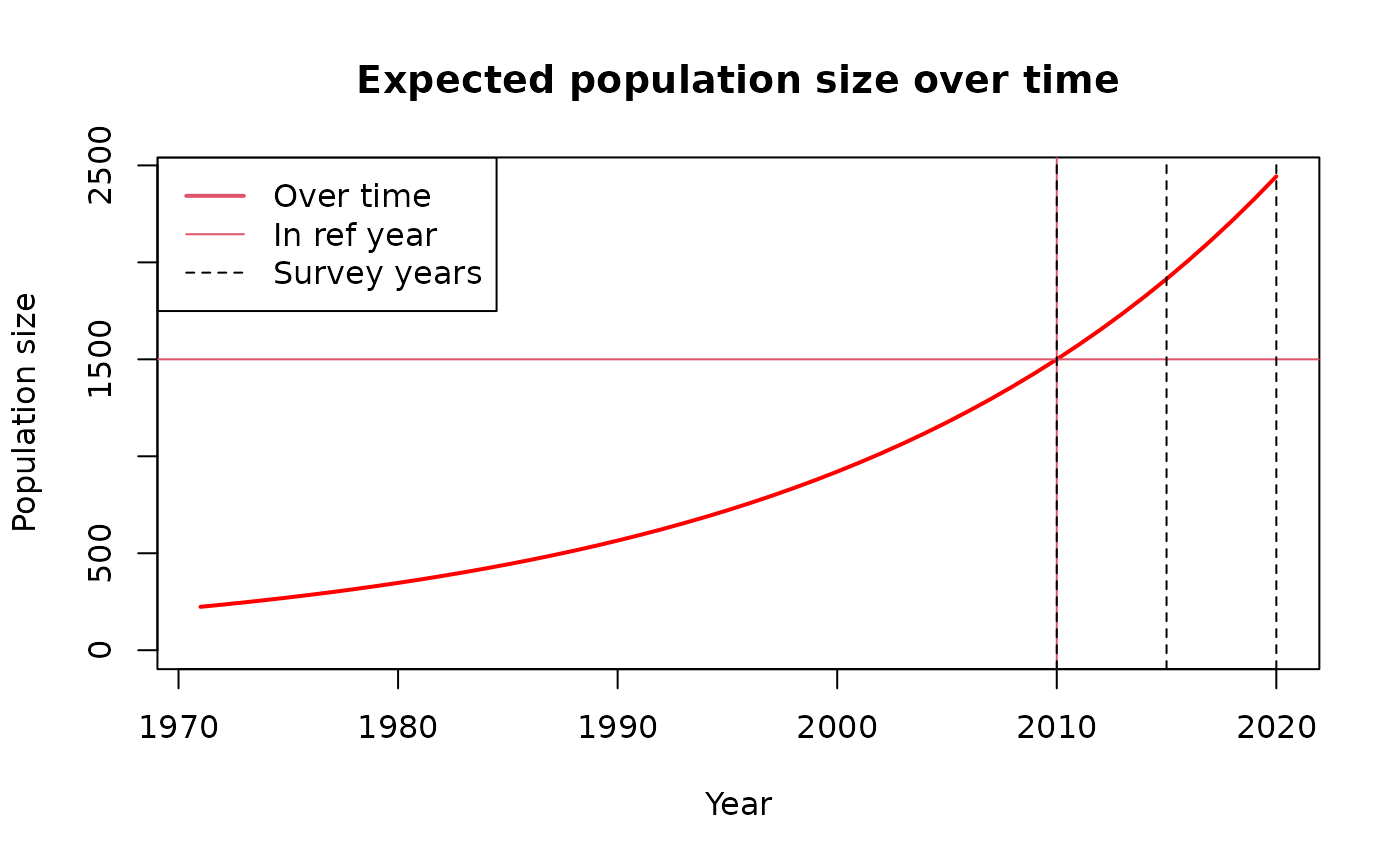
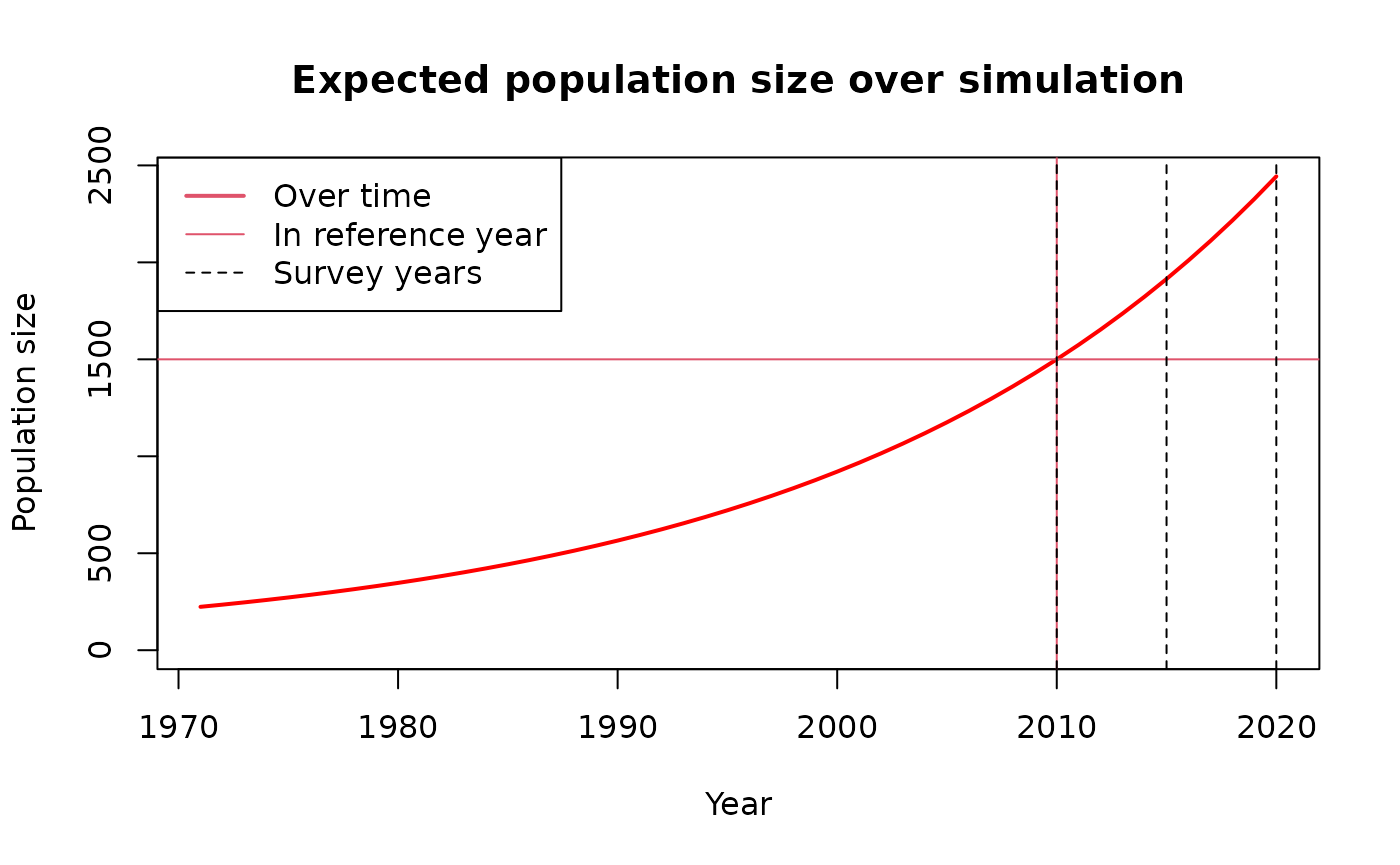
Deploying to gh-pages from @ rasutt/ckutils@99b71ac1ff1fa2b713cb8f41db027f6d39391b6d 🚀

Changed region(s): [[0.215, 0.0624, 0.86, 0.1249], [0.2457, 0.2497, 0.3993, 0.3121]]

diff --git a/index.html b/index.html
@@ -73,23 +73,24 @@
 <div class="section level2">
 <h2 id="example">Example<a class="anchor" aria-label="anchor" href="#example"></a>
 </h2>
-<p>This is a basic example which shows you how to simulate a wildlife population and a sampling-survey study of it:</p>
+<p>This is a basic example which shows you how to simulate a wildlife population and a sampling-survey study of it.</p>
+<div class="section level3">
+<h3 id="simulation-years-and-expected-population-size">Simulation years and expected population size<a class="anchor" aria-label="anchor" href="#simulation-years-and-expected-population-size"></a>
+</h3>
+<p>Close-kin studies use the probabilities of close family relationships between pairs of sampled animals (close-kin pairs). These relationships are defined by the breeding events that occur prior to sampling, so ckutils lets you specify the number of years to simulate the population prior to the final survey year. This needs to be long enough that most of the relevant breeding events occur during the simulation.</p>
+<p>ckutils simulates populations in which the expected population size grows by a constant factor called the population growth rate <span class="math inline"><em>λ</em></span>. Specifying this rate along with the expected population size <span class="math inline"><em>N</em></span> in a reference year defines the expected population size in all years. It is good to check these as very small population sizes can be unsustainable, and very large ones slow to simulate.</p>
 <div class="sourceCode" id="cb2"><pre class="downlit sourceCode r">
 <code class="sourceCode R"><span><span class="co"># Load close-kin utilities package</span></span>
 <span><span class="kw"><a href="https://rdrr.io/r/base/library.html" class="external-link">library</a></span><span class="op">(</span><span class="va"><a href="https://rasutt.github.io/ckutils/">ckutils</a></span><span class="op">)</span></span>
 <span></span>
-<span><span class="co"># Population size in reference year</span></span>
+<span><span class="co"># Survey years and simulation length</span></span>
+<span><span class="va">srvy_yrs</span> <span class="op">=</span> <span class="fu"><a href="https://rdrr.io/r/base/c.html" class="external-link">c</a></span><span class="op">(</span><span class="fl">2010</span>, <span class="fl">2015</span>, <span class="fl">2020</span><span class="op">)</span></span>
+<span><span class="va">sim_len</span> <span class="op">=</span> <span class="fl">50</span></span>
+<span></span>
+<span><span class="co"># Population growth rate, and population size in reference year</span></span>
+<span><span class="va">lambda</span> <span class="op">=</span> <span class="fl">1.05</span></span>
 <span><span class="va">ref_yr</span> <span class="op">=</span> <span class="fl">2010</span></span>
 <span><span class="va">exp_N_ref</span> <span class="op">=</span> <span class="fl">1500</span></span>
-<span></span>
-<span><span class="co"># Population growth rate</span></span>
-<span><span class="va">lambda</span> <span class="op">=</span> <span class="fl">1.05</span></span>
-<span></span>
-<span><span class="co"># Survey years</span></span>
-<span><span class="va">srvy_yrs</span> <span class="op">=</span> <span class="fu"><a href="https://rdrr.io/r/base/c.html" class="external-link">c</a></span><span class="op">(</span><span class="fl">2010</span>, <span class="fl">2015</span>, <span class="fl">2020</span><span class="op">)</span></span>
-<span></span>
-<span><span class="co"># Simulation length</span></span>
-<span><span class="va">sim_len</span> <span class="op">=</span> <span class="fl">50</span></span>
 <span></span>
 <span><span class="co"># Simulation years</span></span>
 <span><span class="va">fnl_yr</span> <span class="op">=</span> <span class="fu"><a href="https://rdrr.io/r/utils/head.html" class="external-link">tail</a></span><span class="op">(</span><span class="va">srvy_yrs</span>, <span class="fl">1</span><span class="op">)</span></span>
@@ -100,49 +101,86 @@
 <span><span class="va">exp_N_init</span> <span class="op">=</span> <span class="va">exp_N_ref</span> <span class="op">*</span> <span class="va">lambda</span><span class="op">^</span><span class="op">(</span><span class="va">init_yr</span> <span class="op">-</span> <span class="va">ref_yr</span><span class="op">)</span></span>
 <span><span class="va">exp_N_t</span> <span class="op">=</span> <span class="va">exp_N_init</span> <span class="op">*</span> <span class="va">lambda</span><span class="op">^</span><span class="op">(</span><span class="fl">0</span><span class="op">:</span><span class="op">(</span><span class="va">sim_len</span> <span class="op">-</span> <span class="fl">1</span><span class="op">)</span><span class="op">)</span></span>
 <span></span>
-<span><span class="co"># Plot the expected population size for a particular scenario</span></span>
+<span><span class="co"># Plot expected population size over simulation years</span></span>
 <span><span class="fu"><a href="reference/plot_exp_pop.html">plot_exp_pop</a></span><span class="op">(</span><span class="va">sim_yrs</span>, <span class="va">exp_N_t</span>, <span class="va">ref_yr</span>, <span class="va">exp_N_ref</span>, <span class="va">srvy_yrs</span><span class="op">)</span></span></code></pre></div>
 <p><img src="reference/figures/README-example-1.png" width="100%"></p>
+</div>
+<div class="section level3">
+<h3 id="predicted-numbers-of-close-kin-pairs">Predicted numbers of close-kin pairs<a class="anchor" aria-label="anchor" href="#predicted-numbers-of-close-kin-pairs"></a>
+</h3>
+<p>ckutils simulates populations in which each animal survives from one year to the next with the same constant probability <span class="math inline"><em>ϕ</em></span>, and becomes sexually mature at the same age <span class="math inline"><em>α</em></span>. Each animal also has the same constant probability <span class="math inline"><em>p</em></span> of being sampled in any survey (given that it is alive in that year).</p>
+<p>These parameters, along with the population and survey parameters above, allow for approximations of the expected numbers of various close-kin pairs among sampled animals. A sufficient number of such pairs is essential to a successful study.</p>
 <div class="sourceCode" id="cb3"><pre class="downlit sourceCode r">
-<code class="sourceCode R"><span><span class="co"># Find expected numbers of kin-pairs in population</span></span>
-<span><span class="fu"><a href="reference/find_exp_ns_kps.html">find_exp_ns_kps</a></span><span class="op">(</span></span>
-<span>    exp.N.t <span class="op">=</span> <span class="fl">20</span><span class="op">*</span><span class="fl">1.05</span><span class="op">^</span><span class="op">(</span><span class="fl">1</span><span class="op">:</span><span class="fl">20</span><span class="op">)</span>, s.yr.inds <span class="op">=</span> <span class="fl">1</span><span class="op">:</span><span class="fl">2</span>, phi <span class="op">=</span> <span class="fl">0.9</span>, rho <span class="op">=</span> <span class="fl">0.15</span>, </span>
-<span>    lambda <span class="op">=</span> <span class="fl">1.05</span>, alpha <span class="op">=</span> <span class="fl">5</span>, srvy.yrs <span class="op">=</span> <span class="fu"><a href="https://rdrr.io/r/base/c.html" class="external-link">c</a></span><span class="op">(</span><span class="fl">18</span>, <span class="fl">20</span><span class="op">)</span>, k <span class="op">=</span> <span class="fl">2</span></span>
-<span><span class="op">)</span></span>
+<code class="sourceCode R"><span><span class="co"># Annual survival rate and age of sexual maturity</span></span>
+<span><span class="va">phi</span> <span class="op">=</span> <span class="fl">0.9</span></span>
+<span><span class="va">alpha</span> <span class="op">=</span> <span class="fl">8</span></span>
+<span></span>
+<span><span class="co"># Capture probability</span></span>
+<span><span class="va">p</span> <span class="op">=</span> <span class="fl">0.1</span></span>
+<span></span>
+<span><span class="co"># Survey year indices</span></span>
+<span><span class="va">s_yr_inds</span> <span class="op">=</span> <span class="fu"><a href="https://rdrr.io/r/base/seq.html" class="external-link">seq_along</a></span><span class="op">(</span><span class="va">srvy_yrs</span><span class="op">)</span></span>
+<span></span>
+<span><span class="co"># Number of surveys</span></span>
+<span><span class="va">k</span> <span class="op">=</span> <span class="fu"><a href="https://rdrr.io/r/base/length.html" class="external-link">length</a></span><span class="op">(</span><span class="va">srvy_yrs</span><span class="op">)</span></span>
+<span></span>
+<span><span class="co"># Per capita birth rate</span></span>
+<span><span class="va">rho</span> <span class="op">=</span> <span class="va">lambda</span> <span class="op">-</span> <span class="va">phi</span></span>
+<span></span>
+<span><span class="co"># Find expected numbers of kin-pairs in population</span></span>
+<span><span class="fu"><a href="reference/find_exp_ns_kps.html">find_exp_ns_kps</a></span><span class="op">(</span><span class="va">exp_N_t</span>, <span class="va">s_yr_inds</span>, <span class="va">phi</span>, <span class="va">rho</span>, <span class="va">lambda</span>, <span class="va">alpha</span>, <span class="va">srvy_yrs</span>, <span class="va">k</span><span class="op">)</span></span>
 <span><span class="co">#&gt; $wtn</span></span>
-<span><span class="co">#&gt;      N.s.yrs      APs     POPs     SMPs     SFPs     FSPs     HSPs</span></span>
-<span><span class="co">#&gt; [1,]   21.00 210.0000 24.93750 27.35514 28.00031 4.102449 47.15056</span></span>
-<span><span class="co">#&gt; [2,]   22.05 232.0763 26.18438 28.72290 29.41366 4.102449 49.93166</span></span>
+<span><span class="co">#&gt;       N.s.yrs      APs     POPs     SMPs     SFPs     FSPs      HSPs</span></span>
+<span><span class="co">#&gt; [1,] 223.7219 24913.89 265.6698 462.7737 477.7093 10.34484  919.7933</span></span>
+<span><span class="co">#&gt; [2,] 234.9080 27473.44 278.9533 485.9124 501.6192 10.34484  966.8419</span></span>
+<span><span class="co">#&gt; [3,] 246.6534 30295.64 292.9010 510.2080 526.7247 10.34484 1016.2430</span></span>
 <span><span class="co">#&gt; </span></span>
 <span><span class="co">#&gt; $btn</span></span>
-<span><span class="co">#&gt;         APs   SPs     POPs     SMPs SMPs.kwn.age     SFPs     FSPs     HSPs</span></span>
-<span><span class="co">#&gt; [1,] 463.05 17.01 52.09875 56.82054    0.3904464 56.61519 8.093546 97.24864</span></span></code></pre></div>
+<span><span class="co">#&gt;           APs       SPs     POPs     SMPs SMPs.kwn.age     SFPs     FSPs</span></span>
+<span><span class="co">#&gt; [1,] 52554.09 132.10557 566.1997 879.5848     4.159592 863.9176 17.60714</span></span>
+<span><span class="co">#&gt; [2,] 55181.79  78.00702 545.6511 646.3162     2.020720 624.3719 11.86953</span></span>
+<span><span class="co">#&gt; [3,] 57940.88 138.71085 594.5097 923.5640     4.367572 907.1424 17.60080</span></span>
+<span><span class="co">#&gt;          HSPs</span></span>
+<span><span class="co">#&gt; [1,] 1708.288</span></span>
+<span><span class="co">#&gt; [2,] 1246.949</span></span>
+<span><span class="co">#&gt; [3,] 1795.505</span></span></code></pre></div>
+</div>
+<div class="section level3">
+<h3 id="simulate-population-and-study">Simulate population and study<a class="anchor" aria-label="anchor" href="#simulate-population-and-study"></a>
+</h3>
 <div class="sourceCode" id="cb4"><pre class="downlit sourceCode r">
-<code class="sourceCode R"><span><span class="co"># Set random seed for testing</span></span>
+<code class="sourceCode R"><span><span class="co"># Number of loci in genome</span></span>
+<span><span class="va">L</span> <span class="op">=</span> <span class="fl">100</span></span>
+<span></span>
+<span><span class="co"># Initial minor allele frequency</span></span>
+<span><span class="va">imaf</span> <span class="op">=</span> <span class="fl">0.5</span></span>
+<span></span>
+<span><span class="co"># Set random seed for testing</span></span>
 <span><span class="fu"><a href="https://rdrr.io/r/base/Random.html" class="external-link">set.seed</a></span><span class="op">(</span><span class="fl">1</span><span class="op">)</span></span>
 <span></span>
 <span><span class="co"># Simulate one population and study</span></span>
 <span><span class="va">pop_study</span> <span class="op">=</span> <span class="fu"><a href="reference/sim_pop_study.html">sim_pop_study</a></span><span class="op">(</span></span>
-<span>  phi <span class="op">=</span> <span class="fl">0.9</span>, lambda <span class="op">=</span> <span class="fl">1.05</span>, N.init <span class="op">=</span> <span class="fl">20</span>, hist.len <span class="op">=</span> <span class="fl">20</span>, srvy.yrs <span class="op">=</span> <span class="fl">20</span>, k <span class="op">=</span> <span class="fl">1</span>,</span>
-<span>  f.year <span class="op">=</span> <span class="fl">20</span>, p <span class="op">=</span> <span class="fl">0.5</span>, L <span class="op">=</span> <span class="fl">10</span>, imaf <span class="op">=</span> <span class="fl">0.5</span>, clvng.p <span class="op">=</span> <span class="fl">0</span>, tmp.emgn <span class="op">=</span> <span class="fl">0</span>,</span>
-<span>  alpha <span class="op">=</span> <span class="fl">5</span>, clvng.ints <span class="op">=</span> <span class="cn">F</span></span>
+<span>  <span class="va">phi</span>, <span class="va">lambda</span>, <span class="va">exp_N_init</span>, <span class="va">sim_len</span>, <span class="va">srvy_yrs</span>, <span class="va">k</span>,</span>
+<span>  <span class="va">fnl_yr</span>, <span class="va">p</span>, <span class="va">L</span>, <span class="va">imaf</span>, clvng.p <span class="op">=</span> <span class="fl">0</span>, tmp.emgn <span class="op">=</span> <span class="fl">0</span>,</span>
+<span>  alpha <span class="op">=</span> <span class="va">alpha</span>, clvng.ints <span class="op">=</span> <span class="cn">F</span></span>
 <span><span class="op">)</span></span>
 <span></span>
 <span><span class="co"># Look at it</span></span>
 <span><span class="fu"><a href="https://rdrr.io/r/utils/head.html" class="external-link">head</a></span><span class="op">(</span><span class="va">pop_study</span><span class="op">)</span></span>
-<span><span class="co">#&gt;    ID mum dad C20 Cvg20</span></span>
-<span><span class="co">#&gt; 10 10  NA  NA   1     0</span></span>
-<span><span class="co">#&gt; 11 11  NA  NA   1     0</span></span>
-<span><span class="co">#&gt; 20 20  NA  NA   1     0</span></span>
-<span><span class="co">#&gt; 28 28  10  14   1     1</span></span>
-<span><span class="co">#&gt; 32 32  21  18   1     0</span></span>
-<span><span class="co">#&gt; 39 39   3  19   1     1</span></span></code></pre></div>
+<span><span class="co">#&gt;        ID mum dad C2010 C2015 C2020 Cvg2010 Cvg2015 Cvg2020</span></span>
+<span><span class="co">#&gt; 455   455 159  71     0     1     0       1       1       1</span></span>
+<span><span class="co">#&gt; 506   506 115 150     1     0     0       0       0       0</span></span>
+<span><span class="co">#&gt; 536   536 116 192     1     0     0       0       0       0</span></span>
+<span><span class="co">#&gt; 1012 1012 411  65     0     1     0       0       0       0</span></span>
+<span><span class="co">#&gt; 1035 1035  16 369     0     1     1       1       1       1</span></span>
+<span><span class="co">#&gt; 1052 1052 478 480     1     0     0       0       0       0</span></span></code></pre></div>
 <div class="sourceCode" id="cb5"><pre class="downlit sourceCode r">
 <code class="sourceCode R"><span><span class="fu"><a href="https://rdrr.io/r/base/names.html" class="external-link">names</a></span><span class="op">(</span><span class="fu"><a href="https://rdrr.io/r/base/attributes.html" class="external-link">attributes</a></span><span class="op">(</span><span class="va">pop_study</span><span class="op">)</span><span class="op">)</span></span>
 <span><span class="co">#&gt;  [1] "names"       "row.names"   "class"       "avg.phi.obs" "beta"       </span></span>
 <span><span class="co">#&gt;  [6] "N.t.vec"     "ns.caps"     "Ns"          "ns.clvng"    "alive"      </span></span>
 <span><span class="co">#&gt; [11] "alv.s.yrs"   "f.age"       "mum"         "dad"         "ID"         </span></span>
 <span><span class="co">#&gt; [16] "ind.gts"</span></span></code></pre></div>
+</div>
 </div>
 </div>
   </main><aside class="col-md-3"><div class="license">

diff --git a/reference/plot_exp_pop.html b/reference/plot_exp_pop.html
@@ -48,7 +48,7 @@
 
     <div class="section level2">
     <h2 id="ref-usage">Usage<a class="anchor" aria-label="anchor" href="#ref-usage"></a></h2>
-    <div class="sourceCode"><pre class="sourceCode r"><code><span><span class="fu">plot_exp_pop</span><span class="op">(</span><span class="va">sim_yrs</span>, <span class="va">exp_N_t</span>, <span class="va">base_yr</span>, <span class="va">exp_N_base</span>, <span class="va">srvy_yrs</span><span class="op">)</span></span></code></pre></div>
+    <div class="sourceCode"><pre class="sourceCode r"><code><span><span class="fu">plot_exp_pop</span><span class="op">(</span><span class="va">sim_yrs</span>, <span class="va">exp_N_t</span>, <span class="va">ref_yr</span>, <span class="va">exp_N_ref</span>, <span class="va">srvy_yrs</span><span class="op">)</span></span></code></pre></div>
     </div>
 
     <div class="section level2">
@@ -61,12 +61,12 @@
 <dd><p>Expected population size in each year</p></dd>
 
 
-<dt>base_yr</dt>
-<dd><p>Base year at which expected population size is determined</p></dd>
+<dt>ref_yr</dt>
+<dd><p>reference year at which expected population size is defined</p></dd>
 
 
-<dt>exp_N_base</dt>
-<dd><p>Expected population size in base year</p></dd>
+<dt>exp_N_ref</dt>
+<dd><p>Expected population size in reference year</p></dd>
 
 
 <dt>srvy_yrs</dt>
@@ -77,10 +77,10 @@
     <div class="section level2">
     <h2 id="ref-examples">Examples<a class="anchor" aria-label="anchor" href="#ref-examples"></a></h2>
     <div class="sourceCode"><pre class="sourceCode r"><code><span class="r-in"><span><span class="fu">plot_exp_pop</span><span class="op">(</span></span></span>
-<span class="r-in"><span>  sim_yrs <span class="op">=</span> <span class="fl">1</span><span class="op">:</span><span class="fl">20</span>, exp_N_t <span class="op">=</span> <span class="fl">20</span><span class="op">*</span><span class="fl">1.05</span><span class="op">^</span><span class="op">(</span><span class="fl">1</span><span class="op">:</span><span class="fl">20</span><span class="op">)</span>, base_yr <span class="op">=</span> <span class="fl">1</span>, exp_N_base <span class="op">=</span> <span class="fl">20</span>,</span></span>
+<span class="r-in"><span>  sim_yrs <span class="op">=</span> <span class="fl">1</span><span class="op">:</span><span class="fl">20</span>, exp_N_t <span class="op">=</span> <span class="fl">20</span><span class="op">*</span><span class="fl">1.05</span><span class="op">^</span><span class="op">(</span><span class="fl">1</span><span class="op">:</span><span class="fl">20</span><span class="op">)</span>, ref_yr <span class="op">=</span> <span class="fl">1</span>, exp_N_ref <span class="op">=</span> <span class="fl">20</span>,</span></span>
 <span class="r-in"><span>  srvy_yrs <span class="op">=</span> <span class="fl">20</span></span></span>
 <span class="r-in"><span><span class="op">)</span></span></span>
-<span class="r-err co"><span class="r-pr">#&gt;</span> <span class="error">Error in plot_exp_pop(sim_yrs = 1:20, exp_N_t = 20 * 1.05^(1:20), base_yr = 1,     exp_N_base = 20, srvy_yrs = 20):</span> unused arguments (base_yr = 1, exp_N_base = 20)</span>
+<span class="r-plt img"><img src="plot_exp_pop-1.png" alt="" width="700" height="433"></span>
 <span class="r-in"><span></span></span>
 </code></pre></div>
     </div>

diff --git a/reference/sim_pop_study.html b/reference/sim_pop_study.html
@@ -148,12 +148,12 @@ several attributes.</p>
 <span class="r-in"><span><span class="co"># Look at it</span></span></span>
 <span class="r-in"><span><span class="fu"><a href="https://rdrr.io/r/utils/head.html" class="external-link">head</a></span><span class="op">(</span><span class="va">pop_study</span><span class="op">)</span></span></span>
 <span class="r-out co"><span class="r-pr">#&gt;</span>    ID mum dad C20 Cvg20</span>
-<span class="r-out co"><span class="r-pr">#&gt;</span> 10 10  NA  NA   1     1</span>
-<span class="r-out co"><span class="r-pr">#&gt;</span> 16 16  NA  NA   1     0</span>
-<span class="r-out co"><span class="r-pr">#&gt;</span> 24 24  10   8   1     0</span>
-<span class="r-out co"><span class="r-pr">#&gt;</span> 31 31  10   8   1     0</span>
-<span class="r-out co"><span class="r-pr">#&gt;</span> 44 44  10   2   1     1</span>
-<span class="r-out co"><span class="r-pr">#&gt;</span> 50 50  34  30   1     0</span>
+<span class="r-out co"><span class="r-pr">#&gt;</span> 12 12  NA  NA   1     1</span>
+<span class="r-out co"><span class="r-pr">#&gt;</span> 19 19  NA  NA   1     0</span>
+<span class="r-out co"><span class="r-pr">#&gt;</span> 31 31  19  11   1     0</span>
+<span class="r-out co"><span class="r-pr">#&gt;</span> 32 32  16  20   1     0</span>
+<span class="r-out co"><span class="r-pr">#&gt;</span> 41 41  12  17   1     0</span>
+<span class="r-out co"><span class="r-pr">#&gt;</span> 48 48  31   3   1     1</span>
 <span class="r-in"><span><span class="fu"><a href="https://rdrr.io/r/base/names.html" class="external-link">names</a></span><span class="op">(</span><span class="fu"><a href="https://rdrr.io/r/base/attributes.html" class="external-link">attributes</a></span><span class="op">(</span><span class="va">pop_study</span><span class="op">)</span><span class="op">)</span></span></span>
 <span class="r-out co"><span class="r-pr">#&gt;</span>  [1] "names"       "row.names"   "class"       "avg.phi.obs" "beta"       </span>
 <span class="r-out co"><span class="r-pr">#&gt;</span>  [6] "N.t.vec"     "ns.caps"     "Ns"          "ns.clvng"    "alive"      </span>
